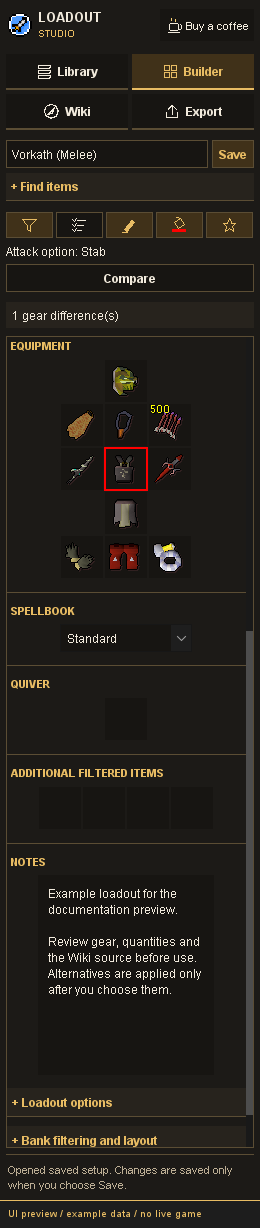
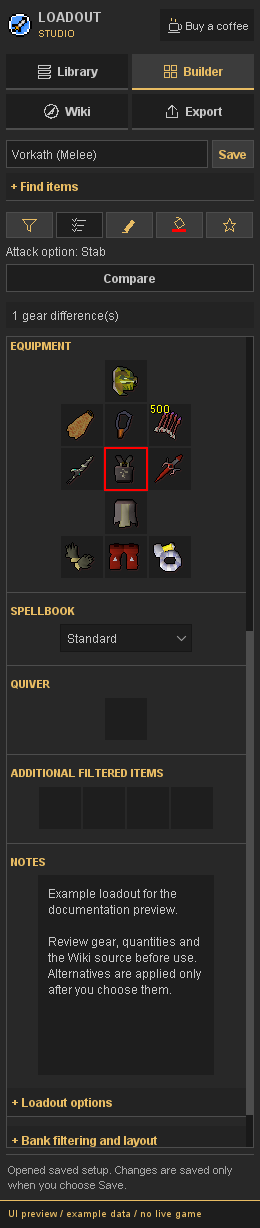
Restore RuneLite gray styling, refresh previews and repair mixed Wiki presets in rc.10

diff --git a/src/test/java/com/loadoutstudio/MixedRecommendationPageTest.java b/src/test/java/com/loadoutstudio/MixedRecommendationPageTest.java
@@ -1,0 +1,16 @@
+/* SPDX-License-Identifier: BSD-2-Clause */
+package com.loadoutstudio;
+import com.google.gson.*;import java.util.*;import org.junit.Test;import static org.junit.Assert.*;
+public class MixedRecommendationPageTest {
+ @Test public void inventoryWithAdjacentRecommendationsGetsItsOwnEquipmentAndPouch(){
+  String source="<tabber>\nMagic=\n{{Inventory|1=Shark}}{{Rune pouch|1=Fire rune}}{{Recommended equipment|style=Mage|head1={{plink|Ancestral hat}}}}\n|-|\nRanged=\n{{Inventory|1=Manta ray}}{{Recommended equipment|style=Range|head1={{plink|Masori mask}}}}\n</tabber>";
+  List<JsonObject> presets=new WikiParser().parse(source,"Maggot King/Strategies","Example source");assertEquals(2,presets.size());
+  assertEquals("Ancestral hat",SetupCodec.setup(presets.get(0)).getAsJsonArray("eq").get(0).getAsJsonObject().get("label").getAsString());assertEquals("Masori mask",SetupCodec.setup(presets.get(1)).getAsJsonArray("eq").get(0).getAsJsonObject().get("label").getAsString());assertFalse(SetupCodec.setup(presets.get(0)).getAsJsonArray("rp").get(0).isJsonNull());assertEquals("Shark",SetupCodec.setup(presets.get(0)).getAsJsonArray("inv").get(0).getAsJsonObject().get("label").getAsString());
+ }
+ @Test public void recommendationOnlyStylesAreNotDroppedWhenAnotherStyleHasInventory(){
+  String source="<tabber>\nMagic=\n{{Inventory|1=Shark}}{{Recommended equipment|style=Mage|head1={{plink|Ancestral hat}}}}\n|-|\nMelee=\n{{Recommended equipment|style=Melee|weapon1={{plink|Elder maul}}}}\n</tabber>";List<JsonObject> presets=new WikiParser().parse(source,"Maggot King/Strategies","Example source");assertEquals(2,presets.size());assertTrue(SetupCodec.name(presets.get(1)).contains("Melee"));assertEquals("Elder maul",SetupCodec.setup(presets.get(1)).getAsJsonArray("eq").get(3).getAsJsonObject().get("label").getAsString());assertTrue(SetupCodec.setup(presets.get(1)).getAsJsonArray("inv").get(0).isJsonNull());
+ }
+ @Test public void explicitEquipmentKeepsItsDeliberatelyEmptySlots(){
+  List<JsonObject> presets=new WikiParser().parse("{{Equipment|weapon=Rune scimitar}}{{Inventory|1=Shark}}{{Recommended equipment|style=Melee|head1={{plink|Torva full helm}}}}","Example/Strategies","Example source");assertTrue(SetupCodec.setup(presets.get(0)).getAsJsonArray("eq").get(0).isJsonNull());
+ }
+}

diff --git a/src/main/java/com/loadoutstudio/WikiParser.java b/src/main/java/com/loadoutstudio/WikiParser.java
@@ -123,7 +123,10 @@ public final class WikiParser
             JsonArray alternatives=SetupCodec.setup(ranked).getAsJsonArray("eq");
             for(int i=0;i<alternatives.size();i++) {
                 JsonElement current=s.getAsJsonArray("eq").get(i), row=alternatives.get(i);
-                if(!current.isJsonNull()&&!row.isJsonNull())current.getAsJsonObject().add("choices",row.getAsJsonObject().getAsJsonArray("choices").deepCopy());
+                if(!row.isJsonNull()){
+                    if(!current.isJsonNull())current.getAsJsonObject().add("choices",row.getAsJsonObject().getAsJsonArray("choices").deepCopy());
+                    else if(nodes.stream().noneMatch(n->n.kind.equals("equipment")))s.getAsJsonArray("eq").set(i,row.deepCopy());
+                }
             }
             String conditions=SetupCodec.setup(ranked).get("notes").getAsString().lines().skip(3).collect(java.util.stream.Collectors.joining("\n"));
             String notes=s.get("notes").getAsString()+"\nWiki recommendation order (most to least effective); conditions:\n"+conditions;
@@ -199,11 +202,13 @@ public final class WikiParser
 			if (!group.isEmpty() && (!variant.equals(nextVariant) || group.stream().anyMatch(n -> n.kind.equals(node.kind))))
 			{
 				if (group.stream().anyMatch(n -> n.kind.equals("inventory") || n.kind.equals("equipment"))) result.add(fill(title, namedVariant(variant,text,node.start,tierName(result.size())), source, group));
+                else result.addAll(recommendations(group,title,source));
 				group = new ArrayList<>();
 			}
 			variant = nextVariant; group.add(node);
 		}
 		if (group.stream().anyMatch(n -> n.kind.equals("inventory") || n.kind.equals("equipment"))) result.add(fill(title, namedVariant(variant,text,text.length(),tierName(result.size())), source, group));
+        else result.addAll(recommendations(group,title,source));
 		if (result.size() > 100) throw new IllegalArgumentException("Too many presets on this page.");
 		if(result.isEmpty())result.addAll(recommendations(nodes(text),title,source));
         if(result.isEmpty())throw new IllegalArgumentException("No Equipment, Inventory or Recommended equipment templates found. Use the Builder or import a setup.");

diff --git a/src/main/java/com/loadoutstudio/StudioPanel.java b/src/main/java/com/loadoutstudio/StudioPanel.java
@@ -206,7 +206,7 @@ public final class StudioPanel extends PluginPanel
 			@Override protected Insets getContentBorderInsets(int placement) { return new Insets(0, 0, 0, 0); }
 		});
 		tabs.addTab("Library", libraryTab()); tabs.addTab("Builder", builderTab()); tabs.addTab("Wiki", scroll(wikiTab())); tabs.addTab("Export", exportTab()); add(tabs, BorderLayout.CENTER);
-		JPanel heading = vertical(); JLabel title = text("LOADOUT"); title.setName("studioTitle"); title.setToolTipText("Loadout Studio 0.9.1-rc.9 - character-specific setup library");
+		JPanel heading = vertical(); JLabel title = text("LOADOUT"); title.setName("studioTitle"); title.setToolTipText("Loadout Studio 0.9.1-rc.10 - character-specific setup library");
         JButton coffee = button("Buy a coffee", () -> attempt(host::openSupportPage)); coffee.setIcon(new SidebarIcon(SidebarIcon.Kind.COFFEE)); coffee.setName("supportCoffee"); coffee.setToolTipText("Buy a coffee"); coffee.getAccessibleContext().setAccessibleName("Buy a coffee"); coffee.getAccessibleContext().setAccessibleDescription(COFFEE_URL); coffee.setPreferredSize(new Dimension(94, 28));
         JPanel wordmark=new JPanel(new GridLayout(2,1,0,0));wordmark.setName("studioWordmark");wordmark.add(title);JLabel subtitle=text("STUDIO");subtitle.setName("studioSubtitle");wordmark.add(subtitle);
         JPanel identity=new JPanel(new BorderLayout(6,0));JLabel mark=new JLabel(new ImageIcon(StudioBrandIcon.create().getScaledInstance(24,24,Image.SCALE_REPLICATE)));mark.setName("studioMark");mark.setForeground(GOLD);mark.setPreferredSize(new Dimension(24,32));identity.add(mark,BorderLayout.WEST);identity.add(wordmark,BorderLayout.CENTER);

diff --git a/src/main/java/com/loadoutstudio/StudioTheme.java b/src/main/java/com/loadoutstudio/StudioTheme.java
@@ -2,9 +2,10 @@
 package com.loadoutstudio;
 import java.awt.*;
 import javax.swing.*;
-/** Loadout Studio's own palette. Applied locally; never changes RuneLite UI defaults. */
+import net.runelite.client.ui.ColorScheme;
+/** Native RuneLite neutrals with restrained gold accents; applied to this sidebar only. */
 final class StudioTheme {
-    static final Color BACKGROUND=new Color(28,26,23),SURFACE=new Color(39,35,29),CONTROL=new Color(23,21,18),BORDER=new Color(91,77,52),TEXT=new Color(241,234,220),MUTED=new Color(188,174,148),ACCENT=new Color(232,188,99),SELECTED=new Color(64,49,25),FAVORITE=new Color(247,207,117),ERROR=new Color(230,139,134);
+    static final Color BACKGROUND=ColorScheme.DARK_GRAY_COLOR,SURFACE=ColorScheme.DARK_GRAY_HOVER_COLOR,CONTROL=ColorScheme.CONTROL_COLOR,BORDER=ColorScheme.MEDIUM_GRAY_COLOR,TEXT=ColorScheme.TEXT_COLOR,MUTED=ColorScheme.LIGHT_GRAY_COLOR,ACCENT=new Color(232,188,99),SELECTED=ColorScheme.DARKER_GRAY_HOVER_COLOR,FAVORITE=new Color(247,207,117),ERROR=new Color(230,139,134);
     static final Font BODY=new Font(Font.SANS_SERIF,Font.PLAIN,12),ACTION=new Font(Font.SANS_SERIF,Font.BOLD,12),SMALL=new Font(Font.SANS_SERIF,Font.PLAIN,11),SECTION=new Font(Font.SANS_SERIF,Font.BOLD,11),CODE=new Font(Font.MONOSPACED,Font.PLAIN,11);
     private StudioTheme(){}
     static JToolTip tooltip(JToolTip tip){tip.setFont(SMALL);tip.setBackground(SURFACE);tip.setForeground(TEXT);tip.setBorder(BorderFactory.createCompoundBorder(BorderFactory.createLineBorder(BORDER),BorderFactory.createEmptyBorder(5,7,5,7)));return tip;}

diff --git a/src/main/java/com/loadoutstudio/StudioDiagnostics.java b/src/main/java/com/loadoutstudio/StudioDiagnostics.java
@@ -6,7 +6,7 @@ import java.util.*;
 
 /** Bounded session-only diagnostics. No free text, identifiers, files or network transport. */
 final class StudioDiagnostics {
-    static final String VERSION="0.9.1-rc.9";
+    static final String VERSION="0.9.1-rc.10";
     static final String ISSUE_URL="https://github.com/Pa5cal1/runelite-loadout-studio/issues/new?template=bug_report.yml";
     enum Operation { UI_ACTION,SAVE,IMPORT,EXPORT_PREVIEW,EXPORT_COPY,ITEM_EDIT,ITEM_SEARCH,WIKI_SEARCH,WIKI_PAGE,WIKI_HTTP,WIKI_CACHE_HIT,WIKI_CACHE_FALLBACK,WIKI_CACHE_IO,WIKI_COALESCED,BANK_FILTER,BANK_LAYOUT,ALTERNATIVES }
     enum Outcome { SUCCESS,VALIDATION,EXPECTED_STATE,IO_FAILURE,SERVICE_FAILURE,UNEXPECTED }

diff --git a/src/main/java/com/loadoutstudio/WikiClient.java b/src/main/java/com/loadoutstudio/WikiClient.java
@@ -33,7 +33,7 @@ public final class WikiClient
     private long nextRequest, cooldown;
     private boolean busy;
     private volatile boolean closed;
-    private static final String USER_AGENT="LoadoutStudio/0.9.1-rc.9 (https://github.com/Pa5cal1/runelite-loadout-studio; RuneLite)";
+    private static final String USER_AGENT="LoadoutStudio/0.9.1-rc.10 (https://github.com/Pa5cal1/runelite-loadout-studio; RuneLite)";
     interface Store
     {
         String load() throws IOException;

diff --git a/README.md b/README.md
@@ -2,13 +2,13 @@
 
 Create and organise gear setups for Old School RuneScape. Find loadouts on the OSRS Wiki, edit your Inventory and Equipment, and use your setups with Bank Tags or Inventory Setups.
 
-**Current version: 0.9.1-rc.9.** Loadout Studio is a release candidate and is not yet available through the RuneLite Plugin Hub. Docker is not required to run the plugin or the Java/Gradle test client.
+**Current version: 0.9.1-rc.10.** Loadout Studio is a release candidate and is not yet available through the RuneLite Plugin Hub. Docker is not required to run the plugin or the Java/Gradle test client.
 
 Loadout Studio works without the Inventory Setups and standalone Bank Tag Layouts hub plugins. It owns its library, editor, comparison and codecs. Bank filtering also works with built-in **Bank Tags** disabled. Both Bank Tags states now use the same Loadout Studio view of the ordinary Bank's real widgets. Actual Bank stock counts and item child indices are preserved. Optional imports create independent copies.
 
 ## Screenshots
 
-Offline renders of the actual sidebar using Loadout Studio's own charcoal/gold theme and example loadouts. These are UI previews, not captures of a logged-in client or proof of live Bank behavior.
+Offline renders of the actual sidebar using RuneLite's neutral gray palette with gold accents and example loadouts. These are UI previews, not captures of a logged-in client or proof of live Bank behavior.
 
 ![Library, Builder, Wiki and Export previews](docs/screenshots/overview.png)
 
@@ -479,3 +479,10 @@ Player acceptance: compare Bank Tags on/off with missing gear and repeated food,
 Bank Tags enabled and disabled now use the same Loadout Studio rendering path. Requested filtering runs after core Bank script callbacks. The pre-event of bank initialization/build schedules one coalesced refresh outside the script VM; layout arrangement and the readable title no longer depend on a post-event for a nested Bank script. The plugin no longer registers an ephemeral native tag or delegates its layout to native Bank Tags. Foreign active tags are still respected automatically; explicit Filter Bank switches ownership. Incomplete stored layouts gain missing item references in the runtime copy without overwriting the saved setup.
 
 Offline regressions cover deferred/coalesced refresh without a post-event and completing an incomplete layout without mutating the draft, alongside existing placeholder, stock, codec and ownership tests. The reported live symptom is not claimed reproduced or resolved in-game: confirm the Bank Tags on/off matrix in the test client.
+
+
+### RuneLite gray palette and mixed Wiki presets (0.9.1-rc.10)
+
+The sidebar now uses RuneLite ColorScheme grays for backgrounds, surfaces, controls, borders, text and selections. Gold remains an accent for headings and selected or primary actions. Shared host UI defaults are unchanged. Documentation images were regenerated offline with example data.
+
+A cached Maggot King Strategies source reproduced two concrete parsing defects: inventory-based styles omitted adjacent recommended Equipment, and recommendation-only styles disappeared when another style had a concrete Inventory. Adjacent source recommendations now populate Equipment when the style has no concrete Equipment template; explicitly empty concrete Equipment slots remain empty. Recommendation-only styles remain separately selectable with empty Inventory disclosed for manual completion. This preserves each style and its source-ranked alternatives. No network policy changed.

diff --git a/docs/release-readiness.md b/docs/release-readiness.md
@@ -1,6 +1,6 @@
 # Loadout Studio release readiness
 
-Version: **0.9.1-rc.9**. Review date: **25 October 2026**. Status: **local release candidate, awaiting player acceptance and external review**.
+Version: **0.9.1-rc.10**. Review date: **25 October 2026**. Status: **local release candidate, awaiting player acceptance and external review**.
 
 Reviewed candidate source commit: `b2d90618367f9bfd955a0e5f578d4d49ecff4bae`. The prepared manifest pins this source; later documentation-only changes do not alter its code.
 
@@ -23,7 +23,7 @@ One concrete defect was corrected during the review: useful `Slayer task/…` ar
 | Gate | Evidence | State |
 | --- | --- | --- |
 | Java compatibility | Java 11 compilation and class version 55 | Locally checked |
-| Regression suite | 230 tests, zero failures, errors or skips | Locally passed |
+| Regression suite | 233 tests, zero failures, errors or skips | Locally passed |
 | Account separation | Three-account save/reopen/favorite test, draft recovery and delayed callback guards | Offline passed; live switching pending |
 | Wiki request restraint | Interceptor tests, persisted cache, explicit actions, rolling request budget | Offline passed |
 | Sidebar appearance | Gold theme, 220/260 px layout checks and example-data previews | Offline checked; live scaling pending |
@@ -160,3 +160,10 @@ Player acceptance: compare Bank Tags on/off with missing gear and repeated food,
 Bank Tags enabled and disabled now use the same Loadout Studio rendering path. Requested filtering runs after core Bank script callbacks. The pre-event of bank initialization/build schedules one coalesced refresh outside the script VM; layout arrangement and the readable title no longer depend on a post-event for a nested Bank script. The plugin no longer registers an ephemeral native tag or delegates its layout to native Bank Tags. Foreign active tags are still respected automatically; explicit Filter Bank switches ownership. Incomplete stored layouts gain missing item references in the runtime copy without overwriting the saved setup.
 
 Offline regressions cover deferred/coalesced refresh without a post-event and completing an incomplete layout without mutating the draft, alongside existing placeholder, stock, codec and ownership tests. The reported live symptom is not claimed reproduced or resolved in-game: confirm the Bank Tags on/off matrix in the test client.
+
+
+### RuneLite gray palette and mixed Wiki presets (0.9.1-rc.10)
+
+The sidebar now uses RuneLite ColorScheme grays for backgrounds, surfaces, controls, borders, text and selections. Gold remains an accent for headings and selected or primary actions. Shared host UI defaults are unchanged. Documentation images were regenerated offline with example data.
+
+A cached Maggot King Strategies source reproduced two concrete parsing defects: inventory-based styles omitted adjacent recommended Equipment, and recommendation-only styles disappeared when another style had a concrete Inventory. Adjacent source recommendations now populate Equipment when the style has no concrete Equipment template; explicitly empty concrete Equipment slots remain empty. Recommendation-only styles remain separately selectable with empty Inventory disclosed for manual completion. This preserves each style and its source-ranked alternatives. No network policy changed.

diff --git a/docs/local-acceptance.md b/docs/local-acceptance.md
@@ -1,6 +1,6 @@
-# Testclient acceptance — 0.9.1-rc.9
+# Testclient acceptance — 0.9.1-rc.10
 
-The candidate passed 230 offline tests. Before stable publication, also complete the account and real Bank scenarios in [the release-readiness report](release-readiness.md#manual-acceptance-before-submission). A previous pass on another version does not cover newly changed native integrations.
+The candidate passed 233 offline tests. Before stable publication, also complete the account and real Bank scenarios in [the release-readiness report](release-readiness.md#manual-acceptance-before-submission). A previous pass on another version does not cover newly changed native integrations.
 
 Status: **pending user acceptance**. Automated tests and offline previews are separate from live RuneLite behavior. Only the user performs game interactions. Record RuneLite version, plugin version, Windows display scaling, test date and any active Bank-related plugins. Start with a library backup and disposable test setups.
 
@@ -102,3 +102,10 @@ Player acceptance: compare Bank Tags on/off with missing gear and repeated food,
 Bank Tags enabled and disabled now use the same Loadout Studio rendering path. Requested filtering runs after core Bank script callbacks. The pre-event of bank initialization/build schedules one coalesced refresh outside the script VM; layout arrangement and the readable title no longer depend on a post-event for a nested Bank script. The plugin no longer registers an ephemeral native tag or delegates its layout to native Bank Tags. Foreign active tags are still respected automatically; explicit Filter Bank switches ownership. Incomplete stored layouts gain missing item references in the runtime copy without overwriting the saved setup.
 
 Offline regressions cover deferred/coalesced refresh without a post-event and completing an incomplete layout without mutating the draft, alongside existing placeholder, stock, codec and ownership tests. The reported live symptom is not claimed reproduced or resolved in-game: confirm the Bank Tags on/off matrix in the test client.
+
+
+### RuneLite gray palette and mixed Wiki presets (0.9.1-rc.10)
+
+The sidebar now uses RuneLite ColorScheme grays for backgrounds, surfaces, controls, borders, text and selections. Gold remains an accent for headings and selected or primary actions. Shared host UI defaults are unchanged. Documentation images were regenerated offline with example data.
+
+A cached Maggot King Strategies source reproduced two concrete parsing defects: inventory-based styles omitted adjacent recommended Equipment, and recommendation-only styles disappeared when another style had a concrete Inventory. Adjacent source recommendations now populate Equipment when the style has no concrete Equipment template; explicitly empty concrete Equipment slots remain empty. Recommendation-only styles remain separately selectable with empty Inventory disclosed for manual completion. This preserves each style and its source-ranked alternatives. No network policy changed.

diff --git a/docs/sidebar-system-design.md b/docs/sidebar-system-design.md
@@ -8,7 +8,7 @@ This design applies the supplied System Design template topics to the requested 
 
 ## 1 Abstract
 
-Use a fixed two-by-two navigation grid with the component-local Loadout Studio font and warm charcoal/gold palette. Native settings keep RuneLite fonts. Give each view one main task. Keep Save visible during Builder scrolling. Wiki searching is always available without a permission checkbox; network traffic begins only when the user searches or requests a page.
+Use a fixed two-by-two navigation grid with the component-local Loadout Studio font and RuneLite neutral gray palette with gold accents. Native settings keep RuneLite fonts. Give each view one main task. Keep Save visible during Builder scrolling. Wiki searching is always available without a permission checkbox; network traffic begins only when the user searches or requests a page.
 
 ## 2 Goals and non goals
 
@@ -150,7 +150,7 @@ Show worn items gets a distinct Loadout Studio submenu. Layout/filter actions ca
 
 ## Independent visual identity in 0.9.0
 
-StudioTheme owns the sidebar palette: background #1C1A17, surfaces #27231D, controls #171512, gold accent #E8BC63 and muted text #BCAE94. Logical SansSerif 12 is the UI body font; small uppercase section labels and a two-line LOADOUT/STUDIO wordmark distinguish the chrome from Inventory Setups' presentation. Route glyphs, an active underline, card rails and clear primary actions provide redundant visual cues. Favorites retain a warm secondary star.
+StudioTheme uses RuneLite ColorScheme neutrals: background #282828, surfaces #232323, controls #1E1E1E, borders #4D4D4D, text #C6C6C6, muted text #A5A5A5 and selection #3C3C3C. Gold #E8BC63 remains an accent, rather than a brown background treatment. Logical SansSerif 12 is the UI body font; small uppercase section labels and a two-line LOADOUT/STUDIO wordmark distinguish the chrome from Inventory Setups' presentation. Route glyphs, an active underline, card rails and clear primary actions provide redundant visual cues. Favorites retain a warm secondary star.
 
 The change is limited to this component tree and locally created popup menus/tooltips. Native RuneLite settings and in-game menu rendering are owned by the host and remain unchanged. UIManager values are never modified by StudioTheme. Item art and count fonts remain OSRS-style, with existing grid dimensions and drag/drop semantics. Settings/export/diagnostic flags and stored data receive no migration or rewrite.
 

diff --git a/docs/wiki-network-policy.md b/docs/wiki-network-policy.md
@@ -1,4 +1,4 @@
-# Wiki request policy — 0.9.1-rc.9
+# Wiki request policy — 0.9.1-rc.10
 
 Requests start only after explicit Search/Enter, page selection, URL entry or reload. Startup, opening saved loadouts, typing and background time do not fetch Wiki content. Typing may read local cached suggestions on a worker; it never performs HTTP. Item sprites come from RuneLite ItemManager; no Wiki image service is called.
 
@@ -10,7 +10,7 @@ Search responses are fresh for six hours. Page sources are normally fresh for se
 
 Page resolution may require several bounded API calls. The same public Wiki cache can be reused across characters; it contains public source responses and user-entered Wiki search queries, never gear, account data or credentials. Write failures are visible and leave normal in-session usage available.
 
-HTTP 429/503, Retry-After and API errors trigger a cooldown (at least sixty seconds, up to 24 hours when requested). Queued work is failed visibly; there is no automatic retry. Requests advertise LoadoutStudio/0.9.1-rc.9 and the source repository, set maxlag=5 and cache hints, use 25-second timeouts, bound response sizes and cancel on shutdown.
+HTTP 429/503, Retry-After and API errors trigger a cooldown (at least sixty seconds, up to 24 hours when requested). Queued work is failed visibly; there is no automatic retry. Requests advertise LoadoutStudio/0.9.1-rc.10 and the source repository, set maxlag=5 and cache hints, use 25-second timeouts, bound response sizes and cancel on shutdown.
 
 These limits are conservative project choices, not published OSRS quotas. Wikimedia quotas must not be presented as OSRS Wiki quotas. The supplied Reddit thread is community discussion; it does not establish a general ban on user-triggered Wiki use or verify a particular plugin shutdown.
 

diff --git a/docs/plugin-hub/submission-description.md b/docs/plugin-hub/submission-description.md
@@ -2,7 +2,7 @@
 
 **Name:** Loadout Studio  
 **Author:** Pa5cal1  
-**Candidate:** 0.9.1-rc.9  
+**Candidate:** 0.9.1-rc.10  
 **First stable release after acceptance:** 1.0.0
 
 **Short description:** Create and organise gear loadouts with Wiki presets and owned alternatives
@@ -21,7 +21,7 @@ Please review the Wiki network disclosure, chatbox inputs, Bank widget/layout in
 
 ## Version policy
 
-Use `0.9.1-rc.9` for this candidate. Increment the `rc` number for fixes and retest before stable release. After manual acceptance, update build metadata, diagnostics, User-Agent, launcher, changelog and manifest pin together to `1.0.0`. Later compatible features increment the minor number; fixes increment the patch number. A version label alone does not trigger a Hub update: the manifest must point to the reviewed commit.
+Use `0.9.1-rc.10` for this candidate. Increment the `rc` number for fixes and retest before stable release. After manual acceptance, update build metadata, diagnostics, User-Agent, launcher, changelog and manifest pin together to `1.0.0`. Later compatible features increment the minor number; fixes increment the patch number. A version label alone does not trigger a Hub update: the manifest must point to the reviewed commit.
 
 ## Installation warning proposal
 
